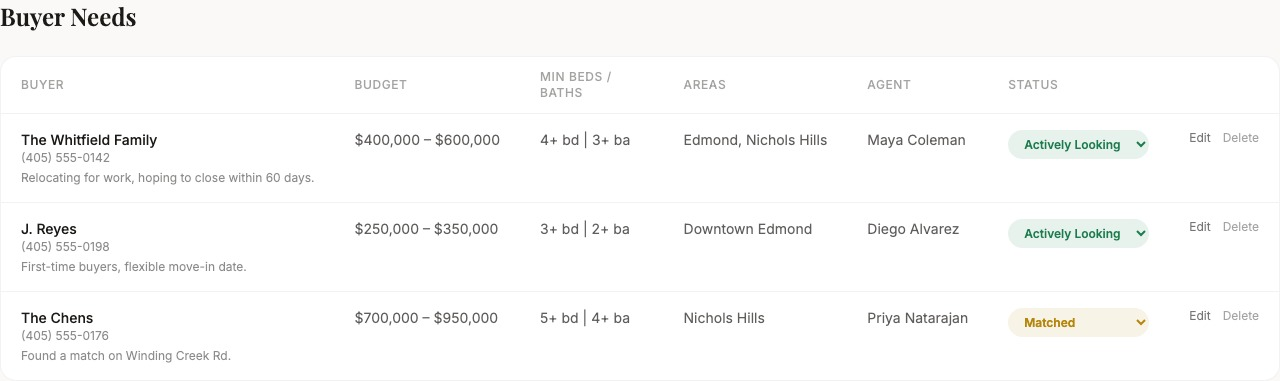
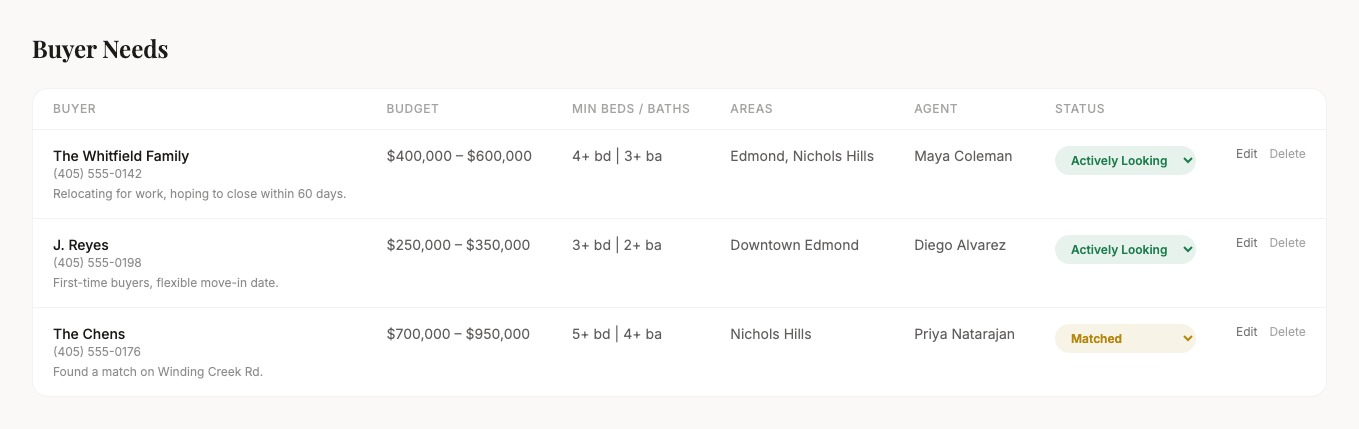
Ship recaptured /upcoming screenshots; remove temp preview route
- New public/images/landing/upcoming-hero.jpg: the distinct hero
  composite (2 rows each of Upcoming Listings and Buyer Needs,
  stacked) -- no longer duplicates the Upcoming Listings section image
  right below it.
- upcoming-listings-table.jpg / buyer-needs-table.jpg recaptured with
  real padding around the heading (no more nearly touching the top
  edge) at a wide-enough viewport to avoid clipping the Delete column.
- Temp screenshot route deleted (ModulePreview.jsx + its App.jsx
  route) now that all three images are captured and committed.

diff --git a/src/App.jsx b/src/App.jsx
@@ -26,9 +26,6 @@ import LandingPage from "./pages/LandingPage";
 import AgentWebsitesPage from "./pages/AgentWebsitesPage";
 import PropertyWebsitesPage from "./pages/PropertyWebsitesPage";
 import UpcomingPage from "./pages/UpcomingPage";
-// TEMPORARY — see ModulePreview.jsx's own header comment. Remove this
-// import + its route below once the marketing screenshots are captured.
-import ModulePreview from "./pages/marketing/ModulePreview";
 
 import HomeSections from "./components/agent-site/HomeSections";
 import Bio from "./components/agent-site/Bio";
@@ -60,7 +57,6 @@ export default function App() {
       <Route path="/agent-websites" element={<AgentWebsitesPage />} />
       <Route path="/property-websites" element={<PropertyWebsitesPage />} />
       <Route path="/upcoming" element={<UpcomingPage />} />
-      <Route path="/marketing-preview" element={<ModulePreview />} />{/* TEMPORARY */}
       <Route path="/login" element={<LoginPage />} />
       <Route path="/accept-invite" element={<SetPasswordPage />} />
 
